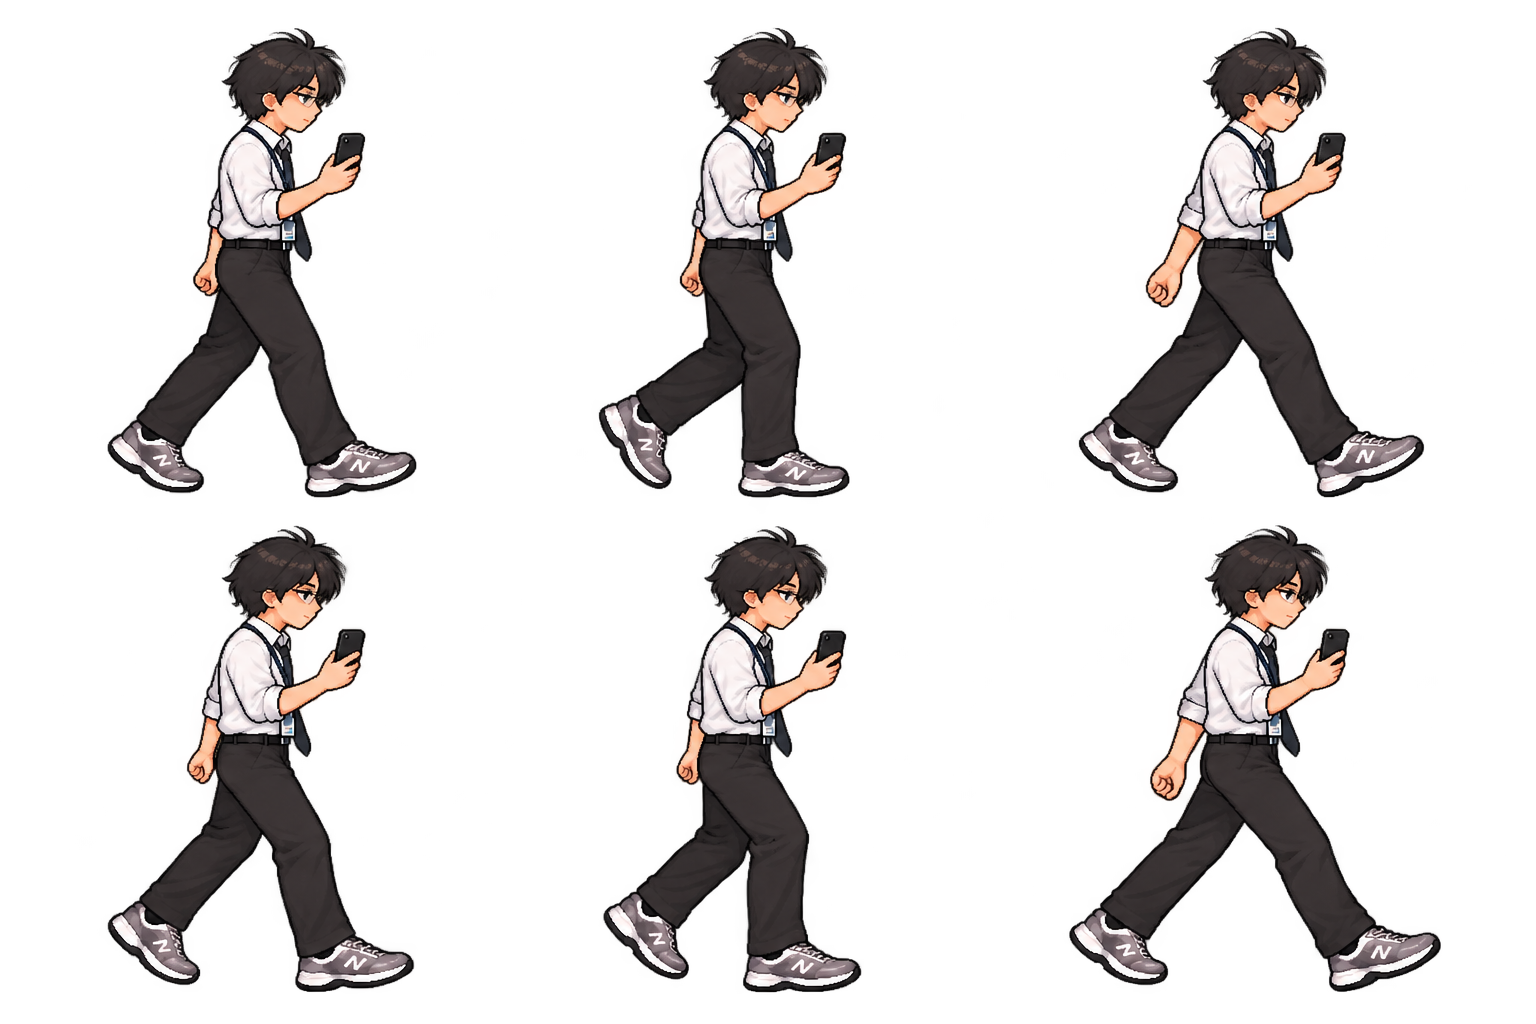
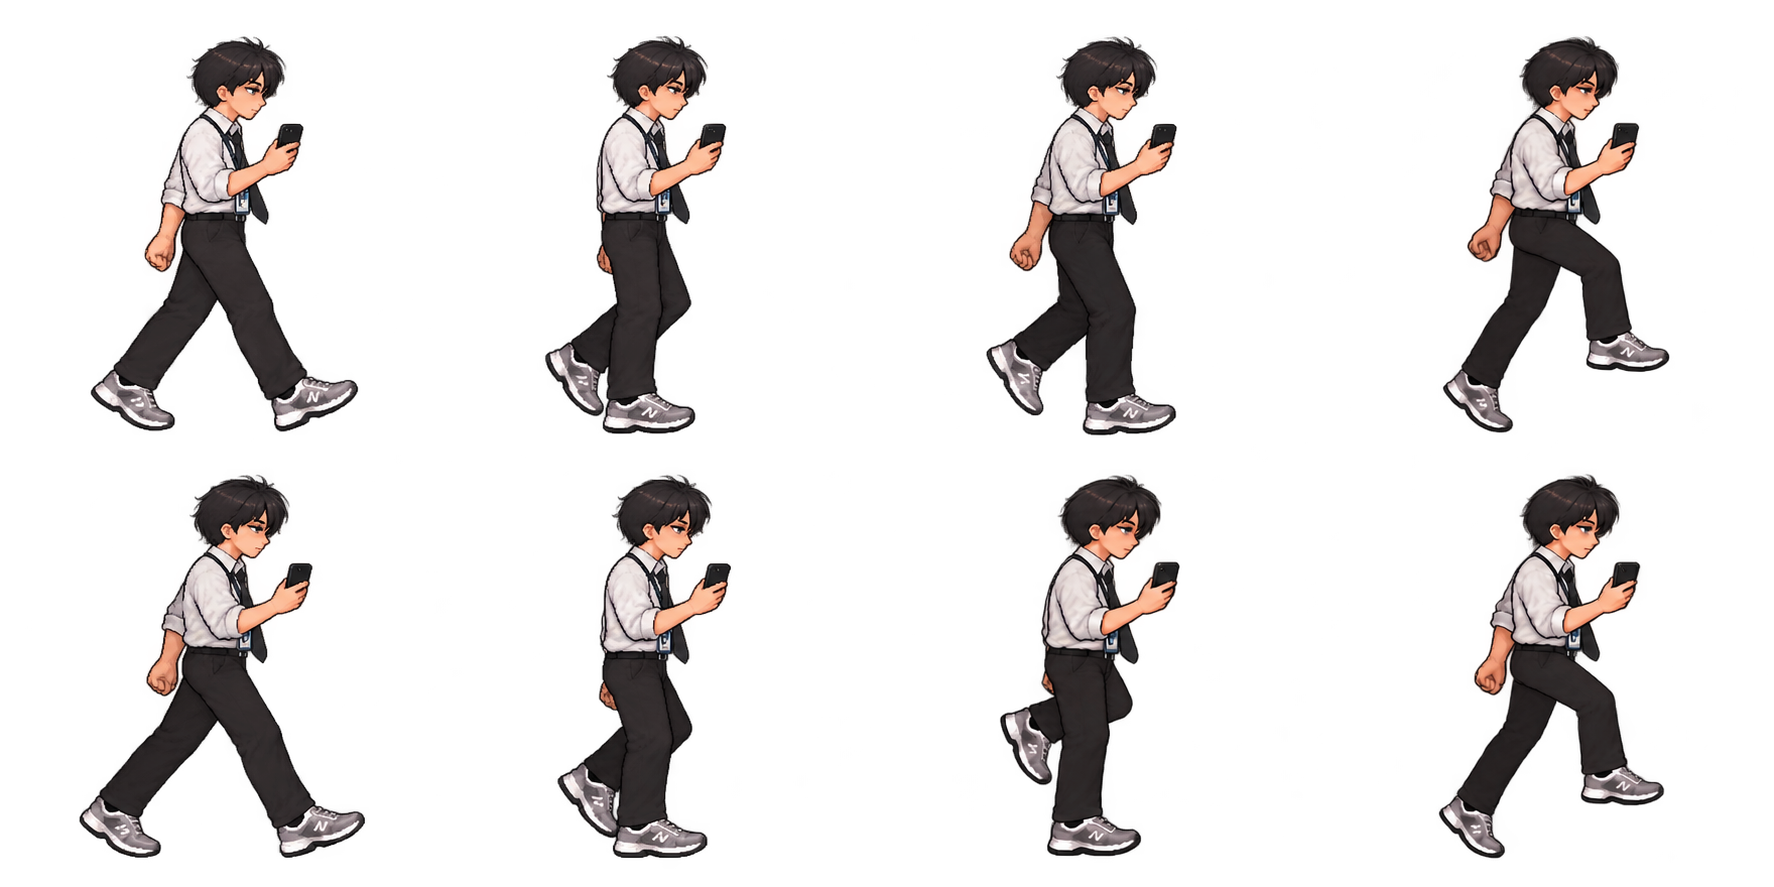
fix: unify Suho walk poses and remove lit running artwork

diff --git a/js/player/player.js b/js/player/player.js
@@ -122,7 +122,7 @@ function animate(distance, sprinting = false, elapsed = 0) {
     refreshPhone();
   }
   const pushing = !crouching && grounded && playerPushing && distance > .1 && pushSheet.naturalWidth === 256 * pushFrames; // 상자를 미는 동안은 밀기 모션
-  const running = !crouching && grounded && sprinting && !pushing && distance > .1 && runSheet.naturalWidth === 256 * runFrames && runSheet.naturalHeight === 256;
+  const running = !crouching && !phoneLightOn && grounded && sprinting && !pushing && distance > .1 && runSheet.naturalWidth === 256 * runFrames && runSheet.naturalHeight === 256;
   const walking = grounded && walkReady && distance > .1 && !running && !pushing;
   const holdingPhone = usingPhone || phoneLightOn;
   walkDistance = walking ? (walkDistance + distance) % (frameDistance * walkFrames) : 0;
@@ -148,16 +148,21 @@ function animate(distance, sprinting = false, elapsed = 0) {
   sprite.dataset.phoneHeld = String(holdingPhone);
   const light = phoneLightOn ? 'on' : 'off';
   for (const [sheet, motion] of [[phoneWalkSheet, 'walk'], [phoneRunSheet, 'run']]) {
-    const src = `assets/player/jeong-suho-phone-${motion}-${motion === 'walk' ? 'twelve' : 'sixteen'}-${light}.png`;
-    if (sheet.getAttribute('src') !== src) sheet.setAttribute('src', src);
+    const src = motion === 'walk' ? `assets/player/jeong-suho-phone-walk-eight-${light}.png` :
+      phoneLightOn ? 'assets/player/jeong-suho-phone-jump-on.png' : 'assets/player/jeong-suho-phone-run-sixteen-off.png';
+    if (sheet.getAttribute('src') !== src) {
+      sheet.setAttribute('src', src);
+      sheet.style.width = `${100 * (motion === 'walk' ? walkFrames : phoneLightOn ? 2 : runFrames)}%`;
+    }
   }
   if (state === 'idle') showIdleFrame(index);
   if (state === 'push') pushSheet.style.transform = `translateX(${-index * 100 / pushFrames}%)`;
   if (state === 'crouch') crouchSheet.style.transform = `translateX(${-index * 25}%)`;
   if (state === 'walk') (holdingPhone ? phoneWalkSheet : walkSheet).style.transform = `translateX(${-index * 100 / walkFrames}%)`;
   if (state === 'run') (holdingPhone ? phoneRunSheet : runSheet).style.transform = `translateX(${-index * 100 / runFrames}%)`;
-  // Reuse the airborne run poses so a lit phone never disappears during a jump.
-  if (holdingPhone && (state === 'jump' || state === 'fall')) phoneRunSheet.style.transform = `translateX(${-(state === 'jump' ? 4 : 12) * 100 / runFrames}%)`;
+  // The lit phone has a two-pose jump/fall sheet, never a running animation.
+  if (holdingPhone && (state === 'jump' || state === 'fall')) phoneRunSheet.style.transform = phoneLightOn ?
+    `translateX(${state === 'jump' ? 0 : -50}%)` : `translateX(${-(state === 'jump' ? 4 : 12) * 100 / runFrames}%)`;
   if (state === 'jump' || state === 'fall') jumpSheet.style.transform = `translateX(${-index * 50}%)`;
   if (state === 'interact') interactSheet.style.transform = `translateX(${-index * 50}%)`;
   if (state === 'phone') phoneSheet.style.transform = `translateX(${-index * 25}%)`;

diff --git a/index.html b/index.html
@@ -33,8 +33,8 @@
     <link rel="stylesheet" href="css/device-apps.css" />
     <link rel="stylesheet" href="css/clues.css" />
     <link rel="preload" as="image" href="assets/objects/guard-robot/guard-capture.png" />
-    <link rel="preload" as="image" href="assets/player/jeong-suho-phone-walk-twelve-on.png" />
-    <link rel="preload" as="image" href="assets/player/jeong-suho-phone-run-sixteen-on.png" />
+    <link rel="preload" as="image" href="assets/player/jeong-suho-phone-walk-eight-on.png" />
+    <link rel="preload" as="image" href="assets/player/jeong-suho-phone-jump-on.png" />
     <link rel="stylesheet" href="css/game.css" />
     <link rel="stylesheet" href="css/debug.css" />
     <script src="assets/vendor/matter.min.js" defer></script>
@@ -153,11 +153,11 @@
           <img id="caught-sheet" src="assets/player/jeong-suho-caught.png" alt="" width="1024" height="256" draggable="false" />
           <img id="idle-sprite" src="assets/player/jeong-suho-idle-four.png" alt="" width="1254" height="1254" draggable="false" />
           <img id="antianxiety-sheet" src="assets/player/jeong-suho-antianxiety.png" alt="" width="1536" height="256" draggable="false" />
-          <img id="walk-sheet" src="assets/player/jeong-suho-walk-twelve.png" alt="" width="3072" height="256" draggable="false" />
+          <img id="walk-sheet" src="assets/player/jeong-suho-walk-eight.png" alt="" width="2048" height="256" draggable="false" />
           <img id="push-sheet" src="assets/player/jeong-suho-push-box.png" alt="" width="1536" height="256" draggable="false" />
           <img id="run-sheet" src="assets/player/jeong-suho-run-sixteen.png" alt="" width="4096" height="256" draggable="false" />
           <img id="crouch-sheet" src="assets/player/jeong-suho-crouch.png" alt="" width="1024" height="256" draggable="false" />
-          <img id="phone-walk-sheet" src="assets/player/jeong-suho-phone-walk-twelve-off.png" alt="" width="3072" height="256" draggable="false" />
+          <img id="phone-walk-sheet" src="assets/player/jeong-suho-phone-walk-eight-off.png" alt="" width="2048" height="256" draggable="false" />
           <img id="phone-run-sheet" src="assets/player/jeong-suho-phone-run-sixteen-off.png" alt="" width="4096" height="256" draggable="false" />
           <img id="jump-sheet" class="action-sheet" src="assets/player/jeong-suho-jump-fall.png" alt="" width="1774" height="887" draggable="false" />
           <img id="interact-sheet" class="action-sheet" src="assets/player/jeong-suho-interact.png" alt="" width="1774" height="887" draggable="false" />

diff --git a/css/game.css b/css/game.css
@@ -910,7 +910,7 @@ body { margin: 0; overflow: hidden; background: #27292b; color: #eee; font: 14px
 #player { position: absolute; top: 0; left: 0; z-index: 6; width: 192px; height: 192px; overflow: hidden; image-rendering: pixelated; user-select: none; pointer-events: none; }
 #player img { display: none; width: 100%; height: 100%; }
 #player #idle-sprite { width: 357.39px; height: 357.39px; transform: translate(3.375px, 1.585px); clip-path: inset(0 50% 50% 0); }
-#player #walk-sheet, #player #phone-walk-sheet { width: 1200%; height: 100%; }
+#player #walk-sheet, #player #phone-walk-sheet { width: 800%; height: 100%; }
 /* 상자 밀기(push-box.png, 256px 칸 6장). 발 기준선이 걷기 그림보다 5px 낮아 같은 바닥에 서도록 올린다. */
 #player #push-sheet { position: relative; top: -5px; width: 600%; height: 100%; }
 #player[data-state="push"] #push-sheet { display: block; }

diff --git a/js/scene/camera.js b/js/scene/camera.js
@@ -7,8 +7,8 @@ let cameraZoom = 1;
 const cameraFocus = { x: 0, y: 0 };
 const cameraShake = { x: 0, y: 0 };
 // Phone LED coordinates in the 256px animation cells, rendered at 75% scale.
-const walkPhoneLamps = [[168, 66], [169, 69], [170, 67], [164, 70], [162, 68], [162, 69],
-  [166, 65], [164, 70], [165, 67], [162, 70], [164, 67], [167, 70]];
+const walkPhoneLamps = [[167, 68], [167, 69], [168, 67], [169, 66],
+  [171, 69], [168, 70], [169, 70], [169, 68]];
 const runPhoneLamps = [[195, 75], [202, 77], [201, 72], [206, 80], [201, 66], [213, 77], [212, 70], [213, 74],
   [204, 71], [208, 85], [202, 69], [208, 82], [204, 66], [205, 89], [202, 78], [203, 78]];
 

diff --git a/js/core/config.js b/js/core/config.js
@@ -19,7 +19,7 @@ const runSpeed = 340;
 const crouchSpeed = 90;
 const runFrames = 16;
 const runFrameDistance = 192 / runFrames;
-const walkFrames = 12;
+const walkFrames = 8;
 const frameDistance = 184 / walkFrames;
 const step = 1000 / 60;
 // 정신력: 밝은 곳·플래시는 더 이상 올리지 않고(소모만 막는다), 어두운 곳에서만 천천히 줄어든다.

diff --git a/assets/player/movement-inbetweens-source/README.md b/assets/player/movement-inbetweens-source/README.md
@@ -1,22 +1,21 @@
-# 수호 이동 중간 프레임
+# 수호 걷기 수정 및 달리기 중간 프레임
 
-2026-10-17 · 내장 `image_gen`으로 기존 수호 시트를 참조해 새 자세를 그렸다.
+2026-10-18 · 내장 `image_gen`으로 기존 수호의 회색 셔츠 주름, 얼굴, 체형을 참조해 걷기 한 주기를 다시 그렸다. 서로 다른 상체·화풍을 번갈아 보여 주던 12프레임 버전은 제거했다.
 
-| 원본 | 배열 | 추가 자세 | 게임용 시트 |
-| --- | --- | --- | --- |
-| `walk.png` | 3열 × 2행 | 6장 | `../jeong-suho-walk-twelve.png` |
-| `run.png` | 4열 × 2행 | 8장 | `../jeong-suho-run-sixteen.png` |
-| `phone-walk-{off,on}.png` | 3열 × 2행 | 각 6장 | `../jeong-suho-phone-walk-twelve-{off,on}.png` |
-| `phone-run-{off,on}.png` | 4열 × 2행 | 각 8장 | `../jeong-suho-phone-run-sixteen-{off,on}.png` |
+| 생성 원본 | 선택 및 배열 | 게임용 시트 |
+| --- | --- | --- |
+| `walk-keys.png` | 3열 × 2행, 양발 접지·하강·통과 6장 | `../jeong-suho-walk-eight.png` |
+| `walk-up.png` | 2열 × 1행, 양발 발끝 밀기 2장 | 위 시트의 3/7번 인덱스에 삽입 |
+| `phone-walk-{off,on}.png` | 4열 × 2행, 같은 8단계 걷기 | `../jeong-suho-phone-walk-eight-{off,on}.png` |
+| `run.png` | 4열 × 2행, 달리기 중간 자세 8장 | `../jeong-suho-run-sixteen.png` |
+| `phone-run-off.png` | 4열 × 2행, 휴대폰을 든 중간 자세 8장 | `../jeong-suho-phone-run-sixteen-off.png` |
 
-각 원본의 k번 자세는 기존 k번과 다음 자세 사이에 들어간다. 마지막 자세는 첫 자세로 돌아가는 연결이다. 기존 프레임은 새 시트의 짝수 인덱스에 픽셀 그대로 보존하고 새 그림은 홀수 인덱스에 배치했다. 게임용 셀은 모두 256×256이다.
+걷기는 접지 → 무릎을 굽혀 체중 받기 → 반대 다리 통과 → 지지 발의 뒤꿈치를 들고 발끝 밀기 순서다. 후반 4장은 반대 발이 지지하며 팔도 반대로 움직인다. 모든 프레임에 지지하는 발 또는 발끝이 바닥에 닿는다. 머리 기준점과 몸 크기를 통일하고 상하 움직임은 약 3px로 제한했다. 휴대폰을 잡은 가까운 팔은 앞으로 유지하며, 빈손인 먼쪽 팔은 몸통 뒤로 가려진다.
 
-걷기는 발뒤꿈치 접지 → 체중을 받으며 무릎 굽힘 → 반대 다리가 지지 다리를 지나감 → 발끝으로 밀며 반대 발을 내미는 과정을 보강했다. 달리기는 착지 압축, 무릎 회수, 발끝 밀기, 공중에서 정강이 펴기와 다음 착지 준비를 보강했다. 반주기에서 팔과 다리의 앞뒤가 바뀌도록 수정했고, 걷기의 상체 기울기와 휴대폰을 들지 않은 먼쪽 팔의 가림 관계를 별도로 보정했다. 손전등 ON은 OFF 원본을 참조해 LED만 켜도록 생성했다.
+게임에는 **플래시를 켜고 달리는 기능이 없다**. 켜진 동안 Shift를 눌러도 걷는다. 켜진 달리기의 확장 시트·생성 원본·미리보기는 제거했다. `jeong-suho-phone-jump-on.png`는 기존 보존 시트 `jeong-suho-phone-run-on.png`의 2/6번 공중 자세만 픽셀 그대로 추출한 점프·낙하 전용 2프레임 시트다. 지상 달리기에는 사용하지 않는다.
 
-재생 주기는 기존과 같다. 걷기는 한 주기 184px 이동(200px/s에서 0.92초), 달리기는 192px 이동(340px/s에서 약 0.565초)이다. 점프·낙하의 휴대폰 그림은 기존 공중 자세를 유지하도록 새 인덱스 4/12를 사용한다. 손전등의 시작 좌표는 `js/scene/camera.js`에서 모든 새 프레임의 실제 LED 위치에 맞췄다.
+달리기 두 시트는 기존 8프레임을 짝수 인덱스에 보존하고 중간 자세를 홀수에 넣은 16프레임이다. 걷기는 전체 8프레임을 재작성했으며 이전 그림과 교대로 섞지 않는다. 런타임 셀은 256×256, 걷기는 한 주기 184px 이동(200px/s에서 0.92초), 달리기는 192px 이동(340px/s에서 약 0.565초)이다.
 
-## 내보내기와 검증
+프로젝트 루트의 `node scripts/prepare-movement-inbetweens.mjs`가 최근접 보간·알파 정리·정렬·셀 배열만 수행해 시트를 재생성한다. 걷기의 기준점은 머리 중심 x=135, 발 기준선은 일반 239/휴대폰 237이다. ON/OFF는 OFF의 정렬값을 공유한다. 광원 좌표는 `js/scene/camera.js`의 실제 LED 위치에 맞췄다.
 
-프로젝트 루트에서 `node scripts/prepare-movement-inbetweens.mjs`로 게임용 여섯 시트를 다시 만든다. 이 스크립트는 그림을 생성하거나 관절을 변형하지 않는다. 원본 그리드를 자르고 최근접 보간으로 크기를 맞추며, 머리 기준점과 발 높이를 정렬하고 중간 프레임의 알파를 0/255로 정리한다. ON/OFF는 같은 OFF 정렬값을 공유한다. 원본 생성 PNG는 보존한다.
-
-`node tests/movement-inbetweens.mjs`로 기존 픽셀 보존·프레임별 구별·투명 여백·잘림·접지를 검사한다. 브라우저 동작은 `tests/movement.mjs`, `tests/running.mjs`, `tests/phone-movement.mjs`에서 확인한다. 미리보기는 `docs/previews/suho-walk-inbetweens.gif`와 `suho-run-inbetweens.gif`이며, 왼쪽부터 일반 이동·휴대폰 OFF·휴대폰 ON이다. GIF 시간 단위에 맞춰 걷기 주기는 0.92초, 달리기는 약 0.56초로 내보냈다.
+검증은 `tests/movement-inbetweens.mjs`와 `tests/phone-movement.mjs`다. `docs/previews/suho-walk-inbetweens.gif`는 일반·휴대폰 OFF·플래시 ON 걷기 3개이고, `suho-run-inbetweens.gif`는 일반·휴대폰 OFF 달리기 2개만 보여 준다.

diff --git a/docs/suho-movement-inbetweens-2026-10-17.md b/docs/suho-movement-inbetweens-2026-10-17.md
@@ -1,26 +1,24 @@
-# 수호 이동 중간 프레임 · 2026-10-17
+# 수호 이동 스프라이트 · 2026-10-18 수정
 
-걷기를 6→12프레임, 달리기를 8→16프레임으로 늘렸다. 일반 이동과 휴대폰 OFF/ON을 합해 새 자세 42장을 추가했다. 기존 셀은 픽셀 그대로 보존하고 각 셀 뒤에 새 자세를 삽입했다. 256×256 투명 셀, 이동 속도와 한 주기 이동 거리는 유지했다.
+걷기의 상체 기울기·셔츠 주름·체형이 기존 그림과 번갈아 바뀌던 문제를 수정했다. 기존 12프레임 조합을 제거하고 접지·하강·통과·발끝 밀기를 양발로 반복하는 **8프레임 걷기**로 다시 구성했다. 일반·휴대폰 OFF·플래시 ON 걷기를 같은 단계로 맞추고 머리 기준점·몸 크기·발 높이를 정렬했다. 달리기는 기존 8프레임 사이에 중간 자세를 넣은 16프레임을 유지한다.
 
-관절의 연결, 체중을 받는 무릎, 반대 다리의 회수, 발끝 밀기, 공중에서 발 내밀기와 반대 팔의 위상을 기준으로 그림을 검토·수정했다. 걷기의 과도한 전방 기울기, 달리기 반주기의 팔 앞뒤, 휴대폰 먼쪽 팔의 가림 관계를 보정했다. 새 그림의 크기·머리 기준점·발 높이를 정렬했고, 휴대폰 LED 좌표와 점프/낙하 재사용 인덱스도 새 시트에 맞췄다.
+**플래시 ON 상태에서는 달릴 수 없다.** Shift를 눌러도 걷기 속도와 걷기 그림을 유지한다. 켜진 달리기 확장 시트와 해당 미리보기는 제거했다. 점프·낙하에서는 기존 공중 자세 두 장만 추출한 `jeong-suho-phone-jump-on.png`를 사용한다.
 
-- [걷기 GIF](previews/suho-walk-inbetweens.gif)
-- [달리기 GIF](previews/suho-run-inbetweens.gif)
+- [걷기 GIF](previews/suho-walk-inbetweens.gif): 일반 이동·휴대폰 OFF·플래시 ON.
+- [달리기 GIF](previews/suho-run-inbetweens.gif): 일반 이동·휴대폰 OFF만 포함.
 - [원본 및 재생성 방법](../assets/player/movement-inbetweens-source/README.md)
 
-GIF는 왼쪽부터 일반 이동·휴대폰 OFF·휴대폰 ON이다. 손전등 ON 달리기 시트는 점프·낙하에서 휴대폰을 유지하는 데 쓰이며, 기존 게임 규칙대로 손전등을 켜고 지상 이동할 때는 걷는다.
+걷기 속도는 200px/s, 한 주기는 184px(0.92초)이며 달리기는 340px/s, 192px(약 0.565초)로 유지했다. 원본 6프레임 걷기 파일은 제작 기록으로 보존한다. 런타임에서는 새 그림을 혼합 없이 사용한다.
 
 ## 검증
 
 | 검사 | 결과 |
 | --- | --- |
-| `node scripts/prepare-movement-inbetweens.mjs` | 여섯 시트 생성, 잘림 없음 |
-| `node tests/movement-inbetweens.mjs` | 통과: 기존 픽셀 보존, 42개 새 자세, 투명도·여백·접지, Chromium에서 12/16프레임 전체 재생·셀 선택·정지 복귀 |
-| `node tests/phone-movement.mjs` | 통과: 모든 프레임의 LED와 광원 시작점, 양방향 이동, 달리기 제한, 점프, 배터리, 휴대폰 넣기, 터치·모바일·빛 마스크 |
-| `node tests/opening.mjs` | 통과: 오프닝 동작과 게임 제어 인계, 모바일·이미지 실패 복구 |
+| `node scripts/prepare-movement-inbetweens.mjs` | 재생성 통과, 잘림 없음 |
+| `node tests/movement-inbetweens.mjs` | 통과: 8단계 걷기의 접지·발끝 밀기·머리 기준점, 알파·여백, 달리기/점프 원본 픽셀 보존, Chromium의 전체 8/16프레임 재생·셀 선택·정지 복귀 |
+| `node tests/phone-movement.mjs` | 통과: 각 LED/광원 위치, 양방향 이동, 플래시 ON에서 Shift 달리기 차단, 전용 점프/낙하 2프레임, 배터리·넣기·모바일·터치 |
+| `node tests/opening.mjs` | 통과: 오프닝·제어 인계·모바일·이미지 실패 복구 |
 | `npm run test:syntax` | 89/89 스크립트 파싱 통과 |
 | `git diff --check` | 통과 |
 
-기존 `movement.mjs`의 새 12프레임 검사는 통과했으며 이후 195행의 엘리베이터 호출 표시 기대값에서 실패했다. 기존 `running.mjs`의 새 16프레임·속도·점프 검사는 통과했으며 이후 99행의 맵 끝 충돌 기대값에서 실패했다. `blackout-scene.mjs`는 81행의 상태 검사에서 실패했다.
-
-세 실패 모두 변경 전 `dc9c99c`의 HTML·JS·CSS·원래 테스트를 별도 복사해 같은 Chromium에서 실행했을 때 동일한 행에서 재현됐다. 이 작업에서는 해당 동작을 변경하지 않았다. 전체 `npm test`는 실행하지 않았다.
+이전 검증에서 `movement.mjs:195`의 엘리베이터 호출 표시, `running.mjs:99`의 맵 끝 충돌, `blackout-scene.mjs:81`의 상태 검사는 변경 전 `dc9c99c`에서도 같은 행에서 실패했다. 이 수정에서는 해당 동작을 변경하지 않았다. 전체 `npm test`는 실행하지 않았다.

diff --git a/assets/player/WALK-PROMPT.md b/assets/player/WALK-PROMPT.md
@@ -1,6 +1,6 @@
 # 정수호 걷기 애니메이션
 
-현재 게임은 기존 여섯 자세 사이에 새 그림 여섯 장을 더한 `jeong-suho-walk-twelve.png`를 사용한다. 새 원본·내보내기·휴대폰 변형은 [movement-inbetweens-source/README.md](movement-inbetweens-source/README.md)를 참고한다. 아래는 보존된 6프레임 버전의 제작 기록이다.
+현재 게임은 같은 화풍으로 걷기 한 주기를 다시 그린 `jeong-suho-walk-eight.png`를 사용한다. 접지·하강·통과·발끝 밀기를 양발로 반복하는 8프레임이며, 이전 12프레임 조합은 제거했다. 새 원본·내보내기·휴대폰 변형은 [movement-inbetweens-source/README.md](movement-inbetweens-source/README.md)를 참고한다. 아래는 보존된 6프레임 버전의 제작 기록이다.
 
 - 생성 도구: 내장 image_gen
 - 참조: `jeong-suho-source.png`, 기존 Notion 주인공 디자인
